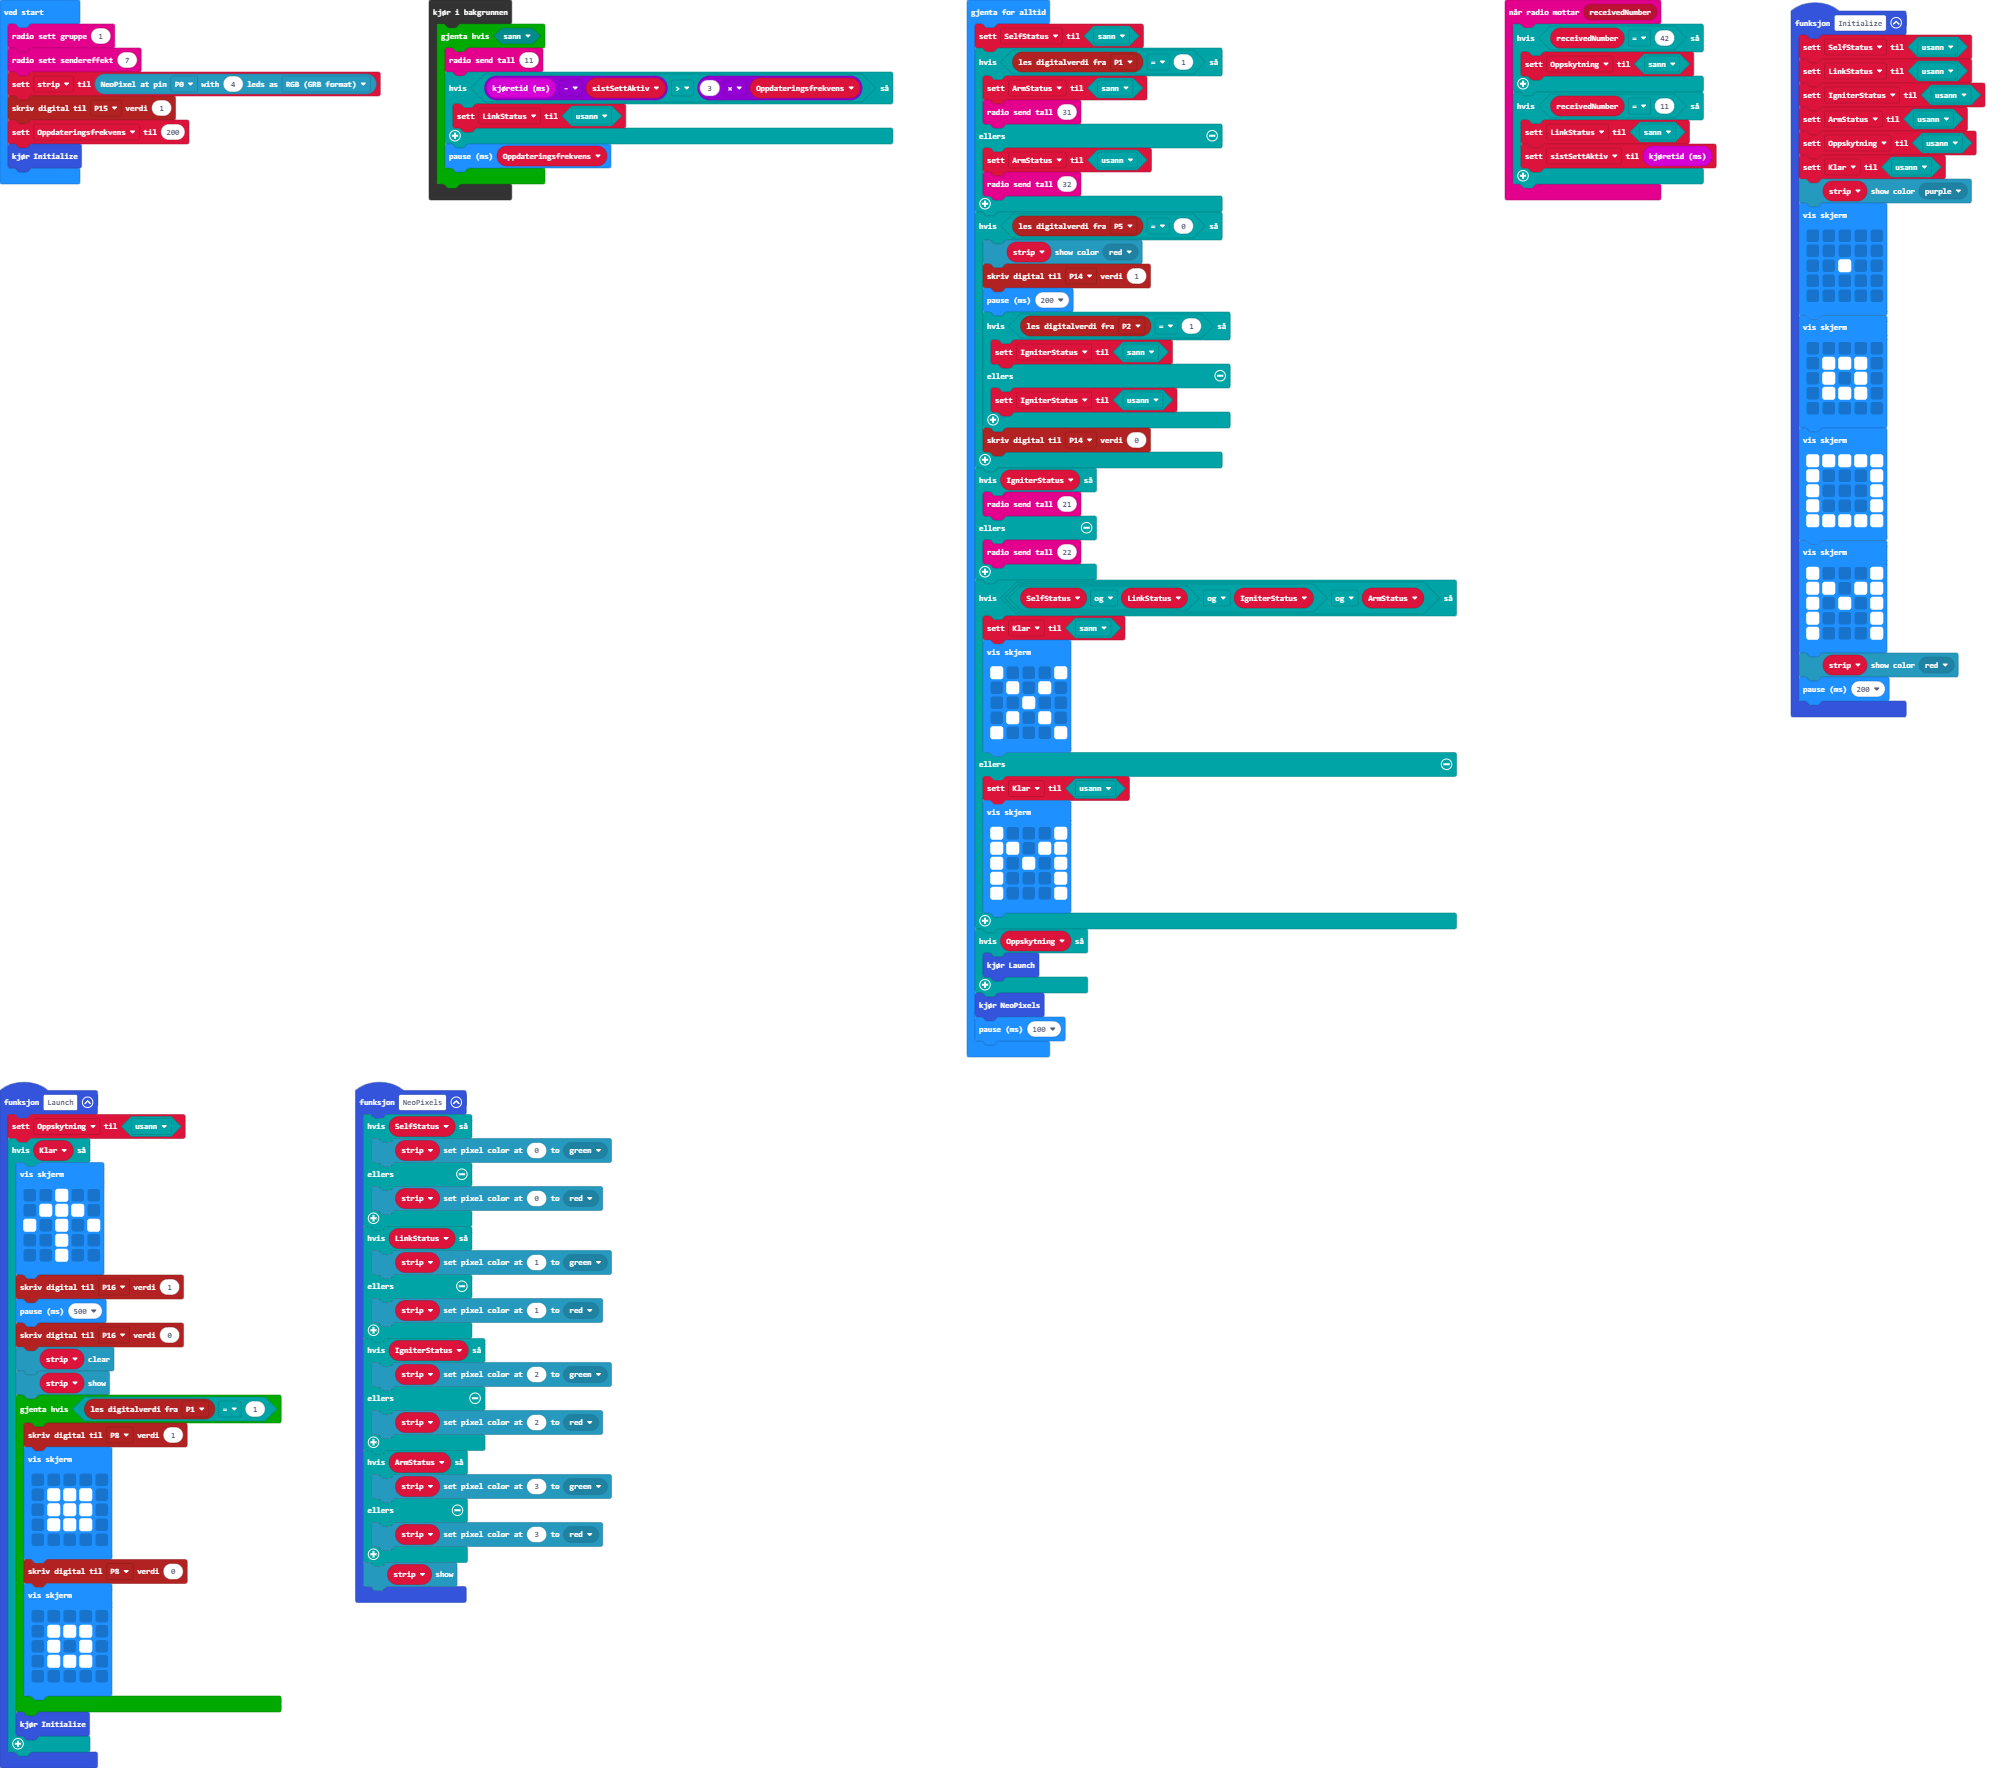
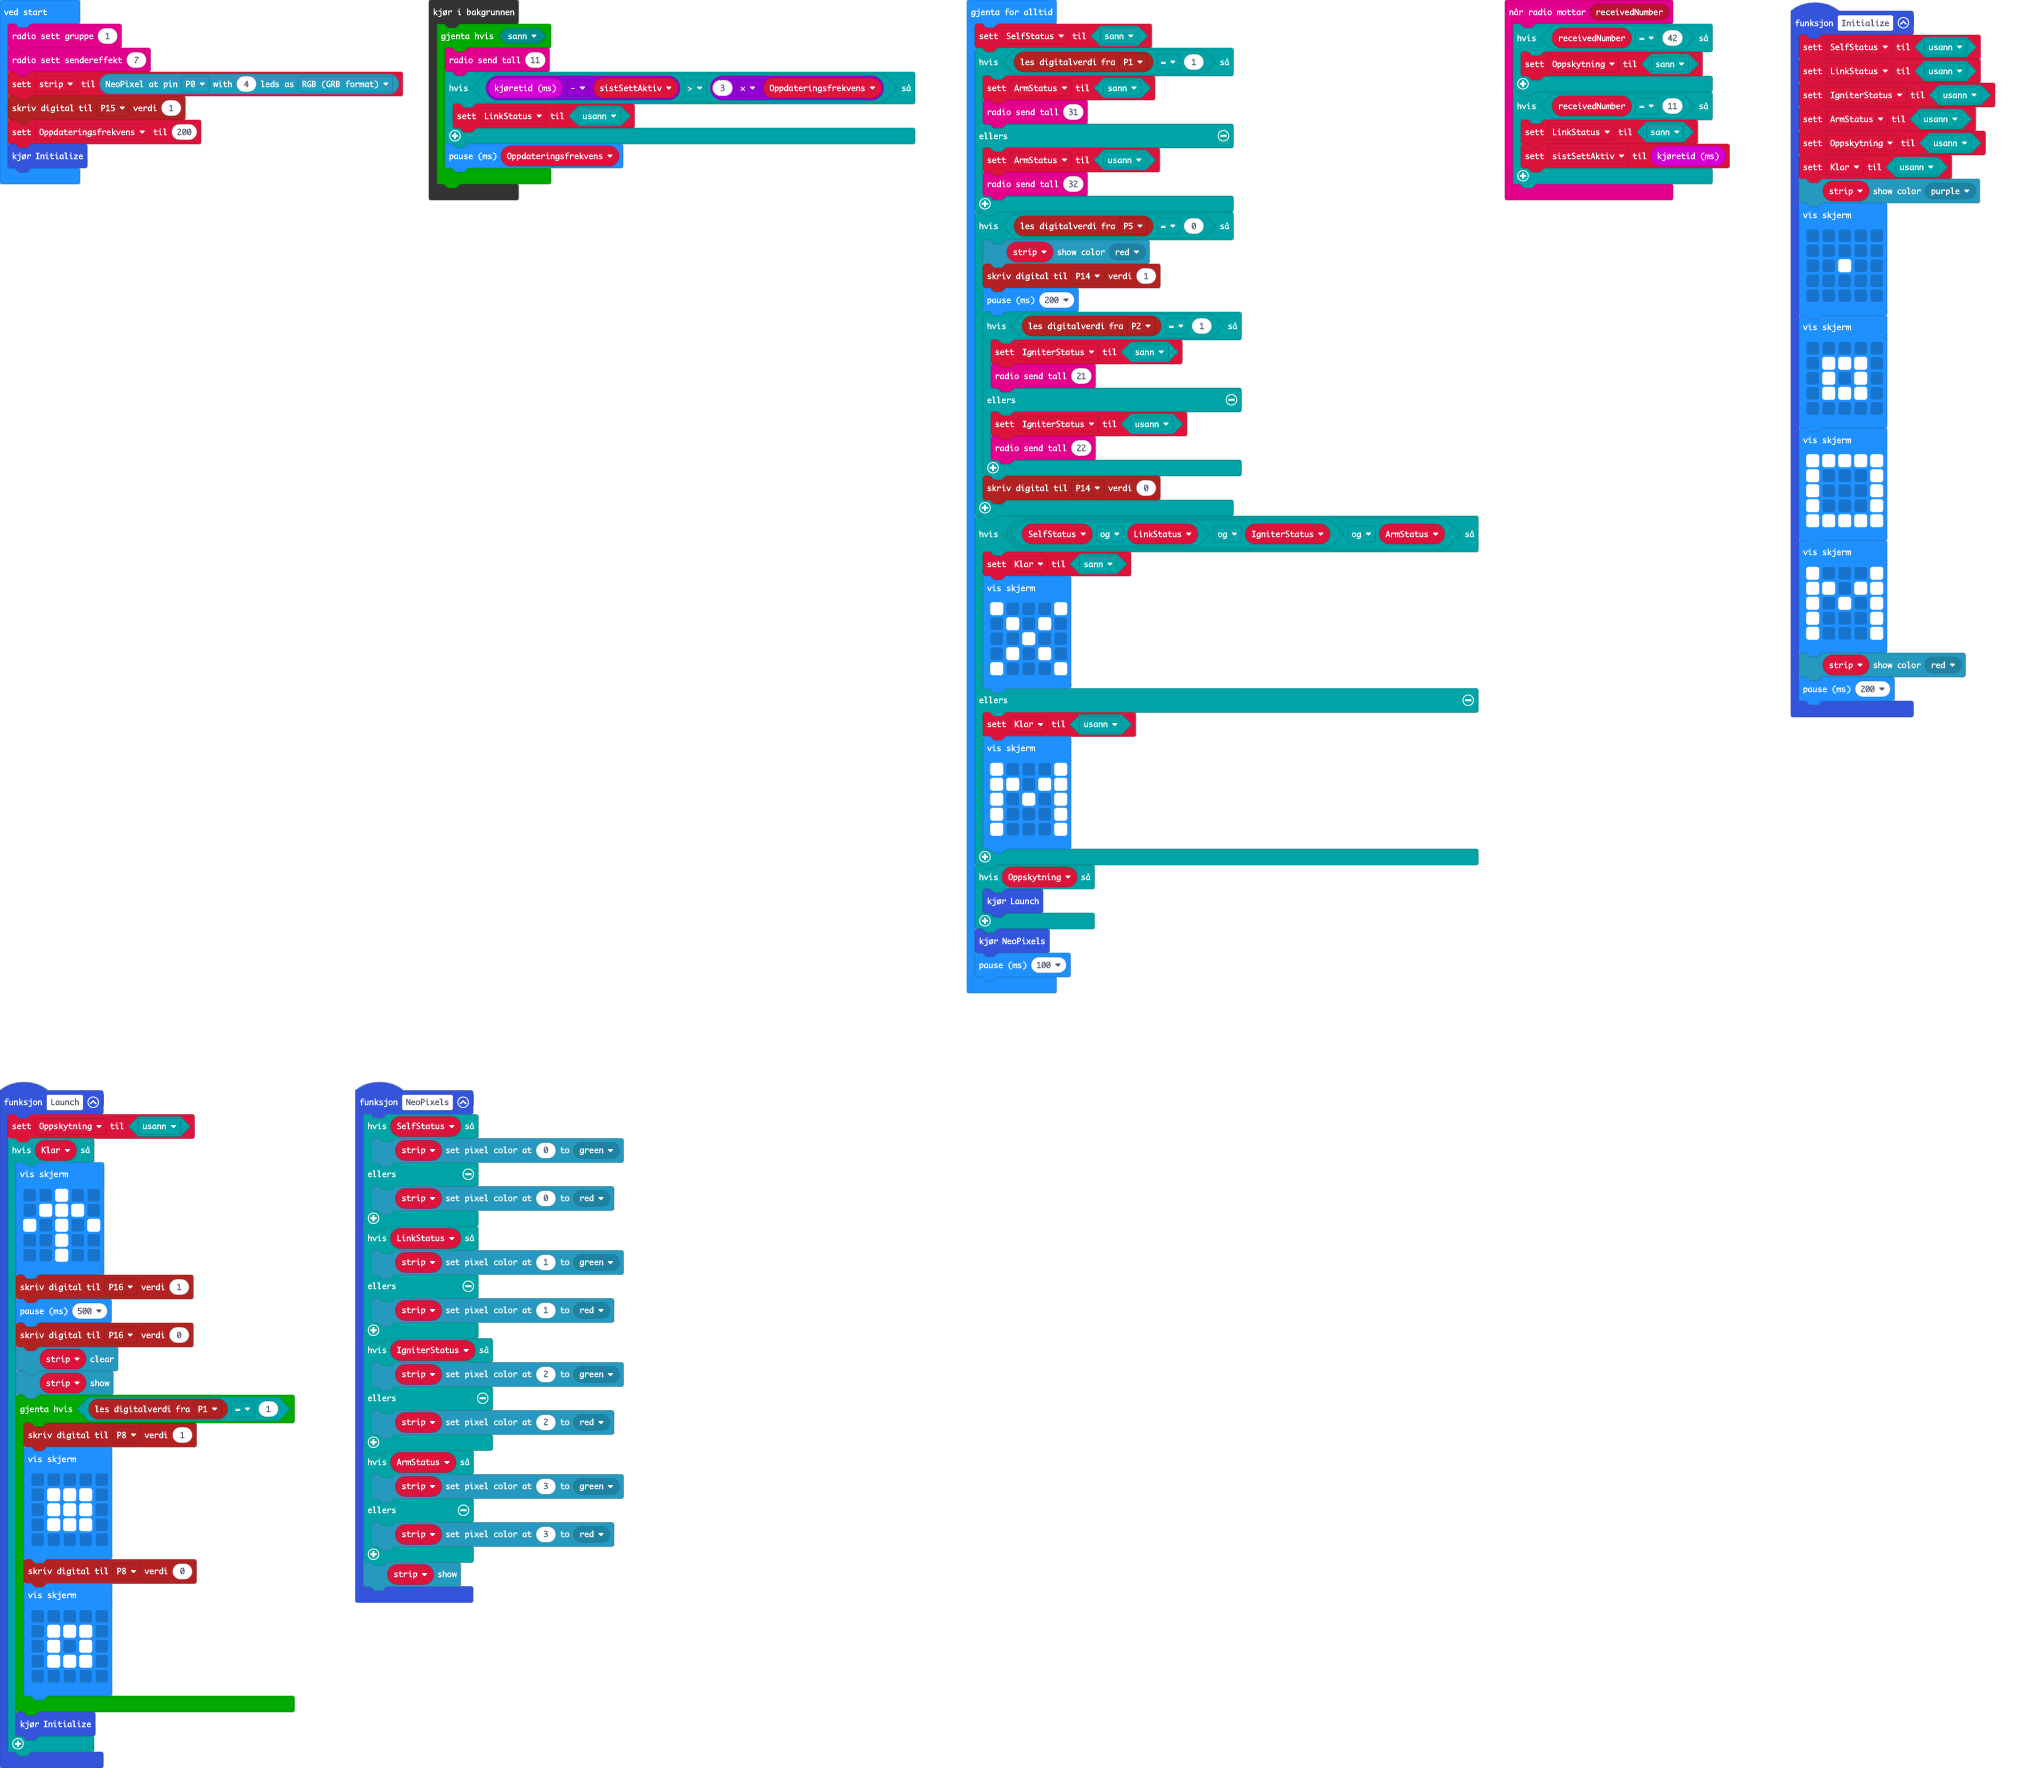
Oppdater main.blocks, main.ts

diff --git a/main.ts b/main.ts
@@ -134,15 +134,12 @@ basic.forever(function () {
         basic.pause(200)
         if (pins.digitalReadPin(DigitalPin.P2) == 1) {
             IgniterStatus = true
+            radio.sendNumber(21)
         } else {
             IgniterStatus = false
+            radio.sendNumber(22)
         }
         pins.digitalWritePin(DigitalPin.P14, 0)
-    }
-    if (IgniterStatus) {
-        radio.sendNumber(21)
-    } else {
-        radio.sendNumber(22)
     }
     if (SelfStatus && LinkStatus && IgniterStatus && ArmStatus) {
         Klar = true
